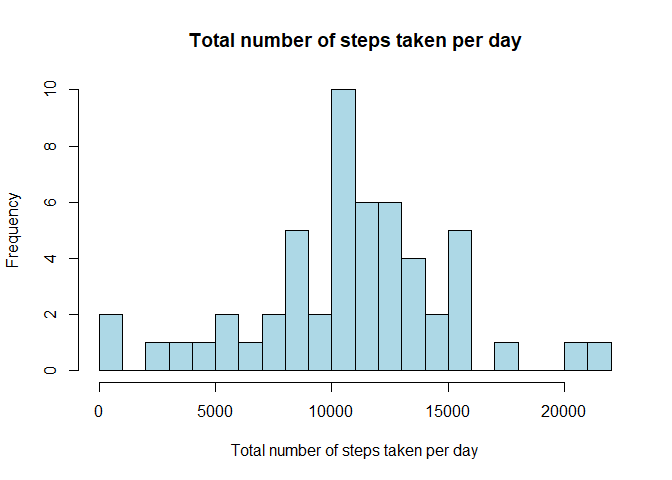
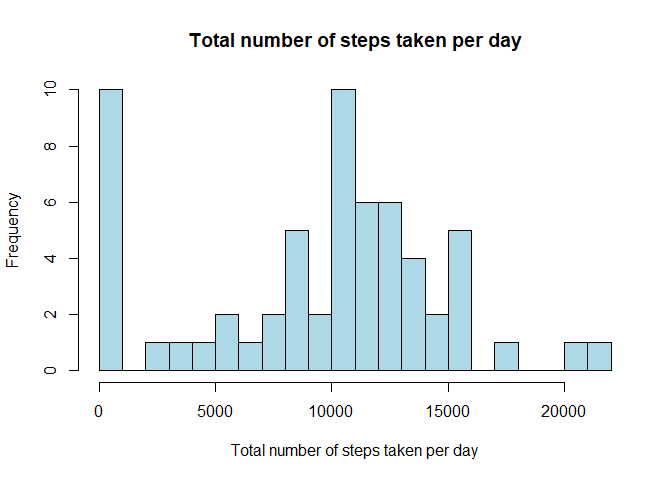
post-assessment corrections

Changed region(s): [[0.125, 0.1875, 0.1875, 0.6562]]

diff --git a/PA1_template.html b/PA1_template.html
@@ -426,7 +426,7 @@ plot(AverageStepsAllDays$interval, AverageStepsAllDays$steps, xlab = &quot;Inter
 activityDataComplete &lt;- activityData
 
 # replace NAs with median steps for all days 
-activityDataComplete[is.na(activityDataComplete$steps),&quot;steps&quot;] &lt;- median(activityDataComplete$steps)</code></pre>
+activityDataComplete[is.na(activityDataComplete$steps),&quot;steps&quot;] &lt;- median(activityDataComplete$steps, na.rm = T)</code></pre>
 <ol start="4" style="list-style-type: decimal">
 <li>Make a histogram of the total number of steps taken each day and Calculate and report the mean and median total number of steps taken per day. Do these values differ from the estimates from the first part of the assignment? What is the impact of imputing missing data on the estimates of the total daily number of steps?</li>
 </ol>
@@ -434,15 +434,15 @@ activityDataComplete[is.na(activityDataComplete$steps),&quot;steps&quot;] &lt;- 
 
 
 hist(CompleteTotalStepsPerDay$steps, xlab = &quot;Total number of steps taken per day&quot;, main = &quot;Total number of steps taken per day&quot;, breaks = 16, col = &quot;lightblue&quot;)</code></pre>
[2 lines of base64/hex data omitted]
 <p>Mean number of steps per day:</p>
 <pre class="r"><code>CompleteMeanStepsPerDay &lt;- mean(CompleteTotalStepsPerDay$steps)
 CompleteMeanStepsPerDay</code></pre>
-<pre><code>## [1] 10766.19</code></pre>
+<pre><code>## [1] 9354.23</code></pre>
 <p>Median number of steps per day:</p>
 <pre class="r"><code>CompleteMedianStepsPerDay &lt;- median(CompleteTotalStepsPerDay$steps)
 CompleteMedianStepsPerDay</code></pre>
-<pre><code>## [1] 10765</code></pre>
+<pre><code>## [1] 10395</code></pre>
 <p>There is a significant reduction is the mean and median values. This is expected as the replacement value, 0, is lower than the original mean and median values. The histogram for the dataset with the replaced values reflects the increase in the number of days where the total number of steps is 0.</p>
 </div>
 <div id="are-there-differences-in-activity-patterns-between-weekdays-and-weekends" class="section level2">
@@ -451,29 +451,35 @@ CompleteMedianStepsPerDay</code></pre>
 <li>Create a new factor variable in the dataset with two levels – “weekday” and “weekend” indicating whether a given date is a weekday or weekend day.</li>
 </ol>
 <pre class="r"><code># assign &quot;weekday&quot; and &quot;weekend&quot; to each row
-activityDataComplete$day &lt;- weekdays(activityData$date)
-activityDataComplete[grepl(pattern = &quot;Monday|Tuesday|Wednesday|Thursday|Friday&quot;, activityDataComplete$day), &quot;weekdayOrweekend&quot;] &lt;- &quot;weekday&quot;
-activityDataComplete[grepl(pattern = &quot;Saturday|Sunday&quot;, activityDataComplete$day), &quot;weekdayOrweekend&quot;] &lt;- &quot;weekend&quot;
+#activityDataComplete$day &lt;- weekdays(activityData$date)
+#activityDataComplete[grepl(pattern = &quot;Monday|Tuesday|Wednesday|Thursday|Friday&quot;, activityDataComplete$day), &quot;weekdayOrweekend&quot;] &lt;- &quot;weekday&quot;
+#activityDataComplete[grepl(pattern = &quot;Saturday|Sunday&quot;, activityDataComplete$day), &quot;weekdayOrweekend&quot;] &lt;- &quot;weekend&quot;
 
+# improvement
+activityDataComplete$day &lt;- ifelse(weekdays(activityDataComplete$date) %in% c(&quot;Saturday&quot;, &quot;Sunday&quot;), &quot;weekend&quot;, &quot;weekday&quot;)
+activityDataComplete$day &lt;- factor(activityDataComplete$day)
 head(activityDataComplete)</code></pre>
-<pre><code>##   steps       date interval    day weekdayOrweekend
-## 1    NA 2012-10-01        0 Monday          weekday
-## 2    NA 2012-10-01        5 Monday          weekday
-## 3    NA 2012-10-01       10 Monday          weekday
-## 4    NA 2012-10-01       15 Monday          weekday
-## 5    NA 2012-10-01       20 Monday          weekday
-## 6    NA 2012-10-01       25 Monday          weekday</code></pre>
+<pre><code>##   steps       date interval     day
+## 1     0 2012-10-01        0 weekday
+## 2     0 2012-10-01        5 weekday
+## 3     0 2012-10-01       10 weekday
+## 4     0 2012-10-01       15 weekday
+## 5     0 2012-10-01       20 weekday
+## 6     0 2012-10-01       25 weekday</code></pre>
 <ol start="2" style="list-style-type: decimal">
 <li>Make a panel plot containing a time series plot (i.e. type = “l”) of the 5-minute interval (x-axis) and the average number of steps taken, averaged across all weekday days or weekend days (y-axis). See the README file in the GitHub repository to see an example of what this plot should look like using simulated data.</li>
 </ol>
-<pre class="r"><code>ggplot(activityDataComplete, aes(x = interval, y = steps, color = weekdayOrweekend)) + 
+<pre class="r"><code># note group_by two variables
+
+plotdata &lt;- activityDataComplete%&gt;%group_by(day, interval)%&gt;%summarise(&quot;steps&quot;=mean(steps))</code></pre>
+<pre><code>## `summarise()` has grouped output by &#39;day&#39;. You can override using the `.groups` argument.</code></pre>
+<pre class="r"><code>ggplot(plotdata, aes(x = interval, y = steps, color = day)) + 
   geom_line() + 
   labs(title = &quot;Average daily steps&quot;, 
        x = &quot;Interval&quot;, 
        y = &quot;Average number of steps&quot;) + 
-  facet_wrap(~weekdayOrweekend, ncol = 1, nrow = 2)</code></pre>
-<pre><code>## Warning: Removed 2 row(s) containing missing values (geom_path).</code></pre>
[1 lines of base64/hex data omitted]
+  facet_wrap(~day, ncol = 1, nrow = 2)</code></pre>
[1 lines of base64/hex data omitted]
 </div>
 
 

diff --git a/PA1_template.md b/PA1_template.md
@@ -121,7 +121,7 @@ sum(is.na(activityData$steps))
 activityDataComplete <- activityData
 
 # replace NAs with median steps for all days 
-activityDataComplete[is.na(activityDataComplete$steps),"steps"] <- median(activityDataComplete$steps)
+activityDataComplete[is.na(activityDataComplete$steps),"steps"] <- median(activityDataComplete$steps, na.rm = T)
 ```
 
 4. Make a histogram of the total number of steps taken each day and Calculate and report the mean and median total number of steps taken per day. Do these values differ from the estimates from the first part of the assignment? What is the impact of imputing missing data on the estimates of the total daily number of steps?
@@ -145,7 +145,7 @@ CompleteMeanStepsPerDay
 ```
 
 ```
-## [1] 10766.19
+## [1] 9354.23
 ```
 Median number of steps per day:
 
@@ -155,7 +155,7 @@ CompleteMedianStepsPerDay
 ```
 
 ```
-## [1] 10765
+## [1] 10395
 ```
 
 There is a significant reduction is the mean and median values. This is expected as the replacement value, 0, is lower than the original mean and median values. The histogram for the dataset with the replaced values reflects the increase in the number of days where the total number of steps is 0.
@@ -166,37 +166,46 @@ There is a significant reduction is the mean and median values. This is expected
 
 ```r
 # assign "weekday" and "weekend" to each row
-activityDataComplete$day <- weekdays(activityData$date)
-activityDataComplete[grepl(pattern = "Monday|Tuesday|Wednesday|Thursday|Friday", activityDataComplete$day), "weekdayOrweekend"] <- "weekday"
-activityDataComplete[grepl(pattern = "Saturday|Sunday", activityDataComplete$day), "weekdayOrweekend"] <- "weekend"
+#activityDataComplete$day <- weekdays(activityData$date)
+#activityDataComplete[grepl(pattern = "Monday|Tuesday|Wednesday|Thursday|Friday", activityDataComplete$day), "weekdayOrweekend"] <- "weekday"
+#activityDataComplete[grepl(pattern = "Saturday|Sunday", activityDataComplete$day), "weekdayOrweekend"] <- "weekend"
 
+# improvement
+activityDataComplete$day <- ifelse(weekdays(activityDataComplete$date) %in% c("Saturday", "Sunday"), "weekend", "weekday")
+activityDataComplete$day <- factor(activityDataComplete$day)
 head(activityDataComplete)
 ```
 
 ```
-##   steps       date interval    day weekdayOrweekend
-## 1    NA 2012-10-01        0 Monday          weekday
-## 2    NA 2012-10-01        5 Monday          weekday
-## 3    NA 2012-10-01       10 Monday          weekday
-## 4    NA 2012-10-01       15 Monday          weekday
-## 5    NA 2012-10-01       20 Monday          weekday
-## 6    NA 2012-10-01       25 Monday          weekday
+##   steps       date interval     day
+## 1     0 2012-10-01        0 weekday
+## 2     0 2012-10-01        5 weekday
+## 3     0 2012-10-01       10 weekday
+## 4     0 2012-10-01       15 weekday
+## 5     0 2012-10-01       20 weekday
+## 6     0 2012-10-01       25 weekday
 ```
 
 2. Make a panel plot containing a time series plot (i.e. \color{red}{\verb|type = "l"|}type = "l") of the 5-minute interval (x-axis) and the average number of steps taken, averaged across all weekday days or weekend days (y-axis). See the README file in the GitHub repository to see an example of what this plot should look like using simulated data.
 
 
 ```r
-ggplot(activityDataComplete, aes(x = interval, y = steps, color = weekdayOrweekend)) + 
+# note group_by two variables
+
+plotdata <- activityDataComplete%>%group_by(day, interval)%>%summarise("steps"=mean(steps))
+```
+
+```
+## `summarise()` has grouped output by 'day'. You can override using the `.groups` argument.
+```
+
+```r
+ggplot(plotdata, aes(x = interval, y = steps, color = day)) + 
   geom_line() + 
   labs(title = "Average daily steps", 
        x = "Interval", 
        y = "Average number of steps") + 
-  facet_wrap(~weekdayOrweekend, ncol = 1, nrow = 2)
-```
-
-```
-## Warning: Removed 2 row(s) containing missing values (geom_path).
+  facet_wrap(~day, ncol = 1, nrow = 2)
 ```
 
 ![](PA1_template_files/figure-html/unnamed-chunk-14-1.png)<!-- -->
